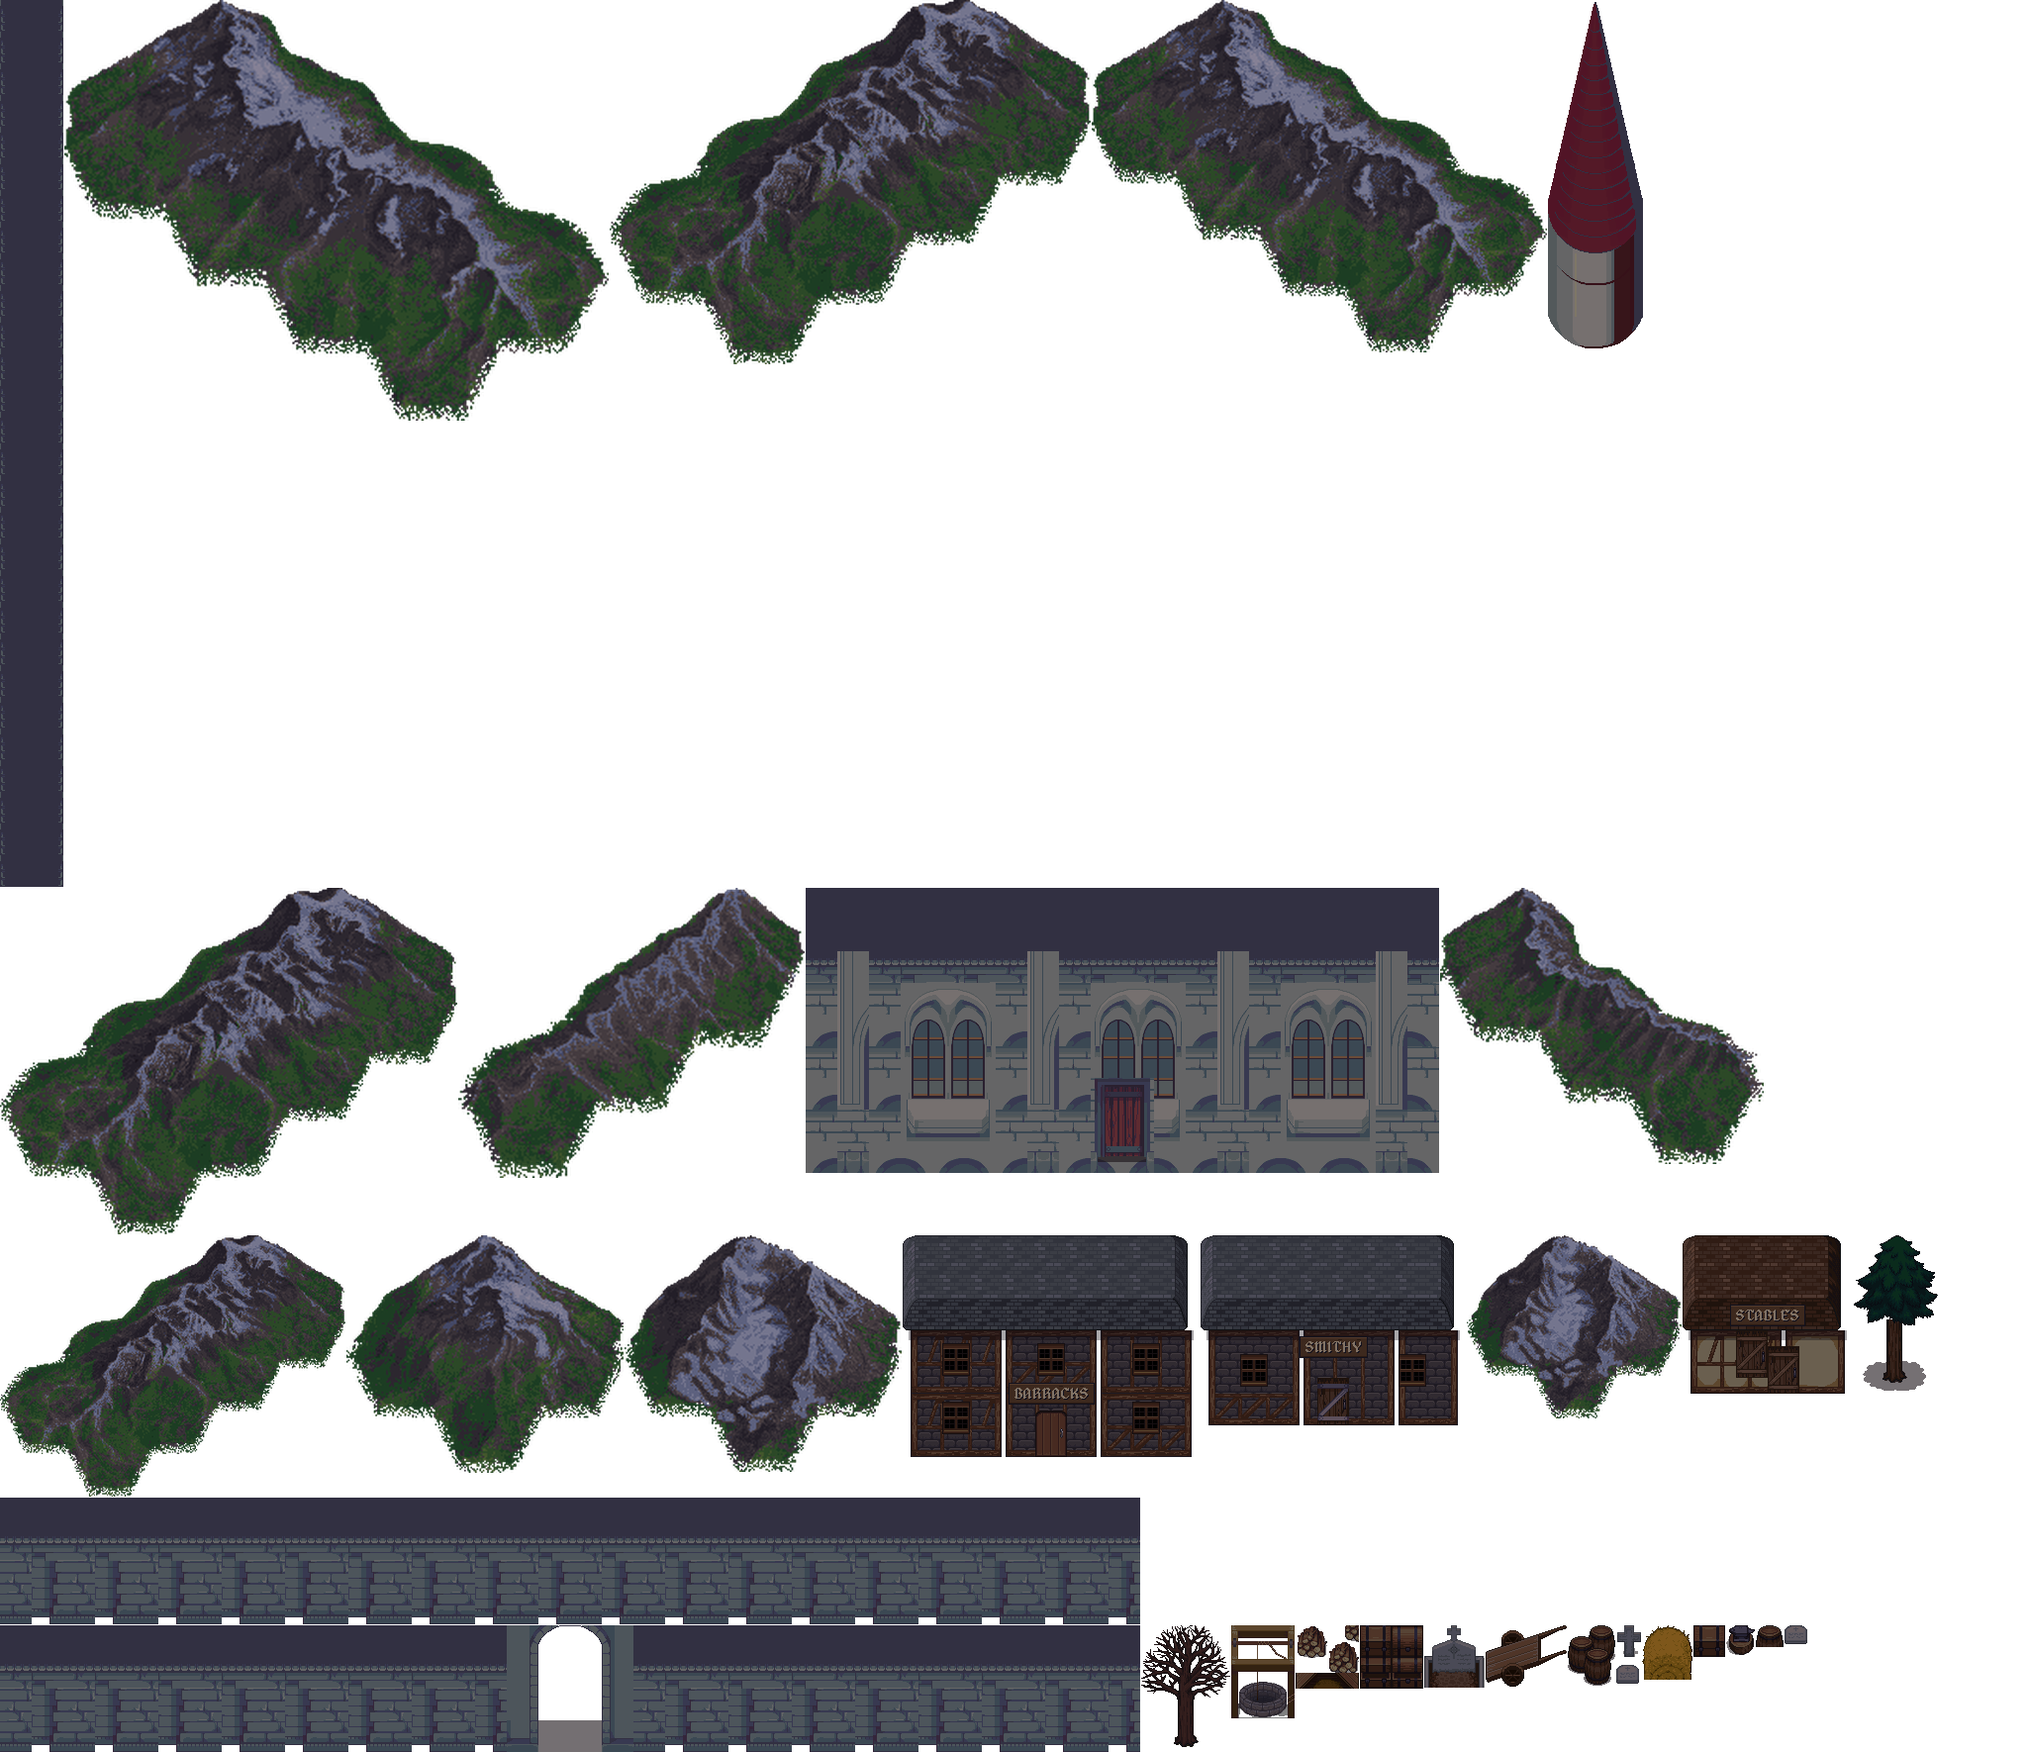
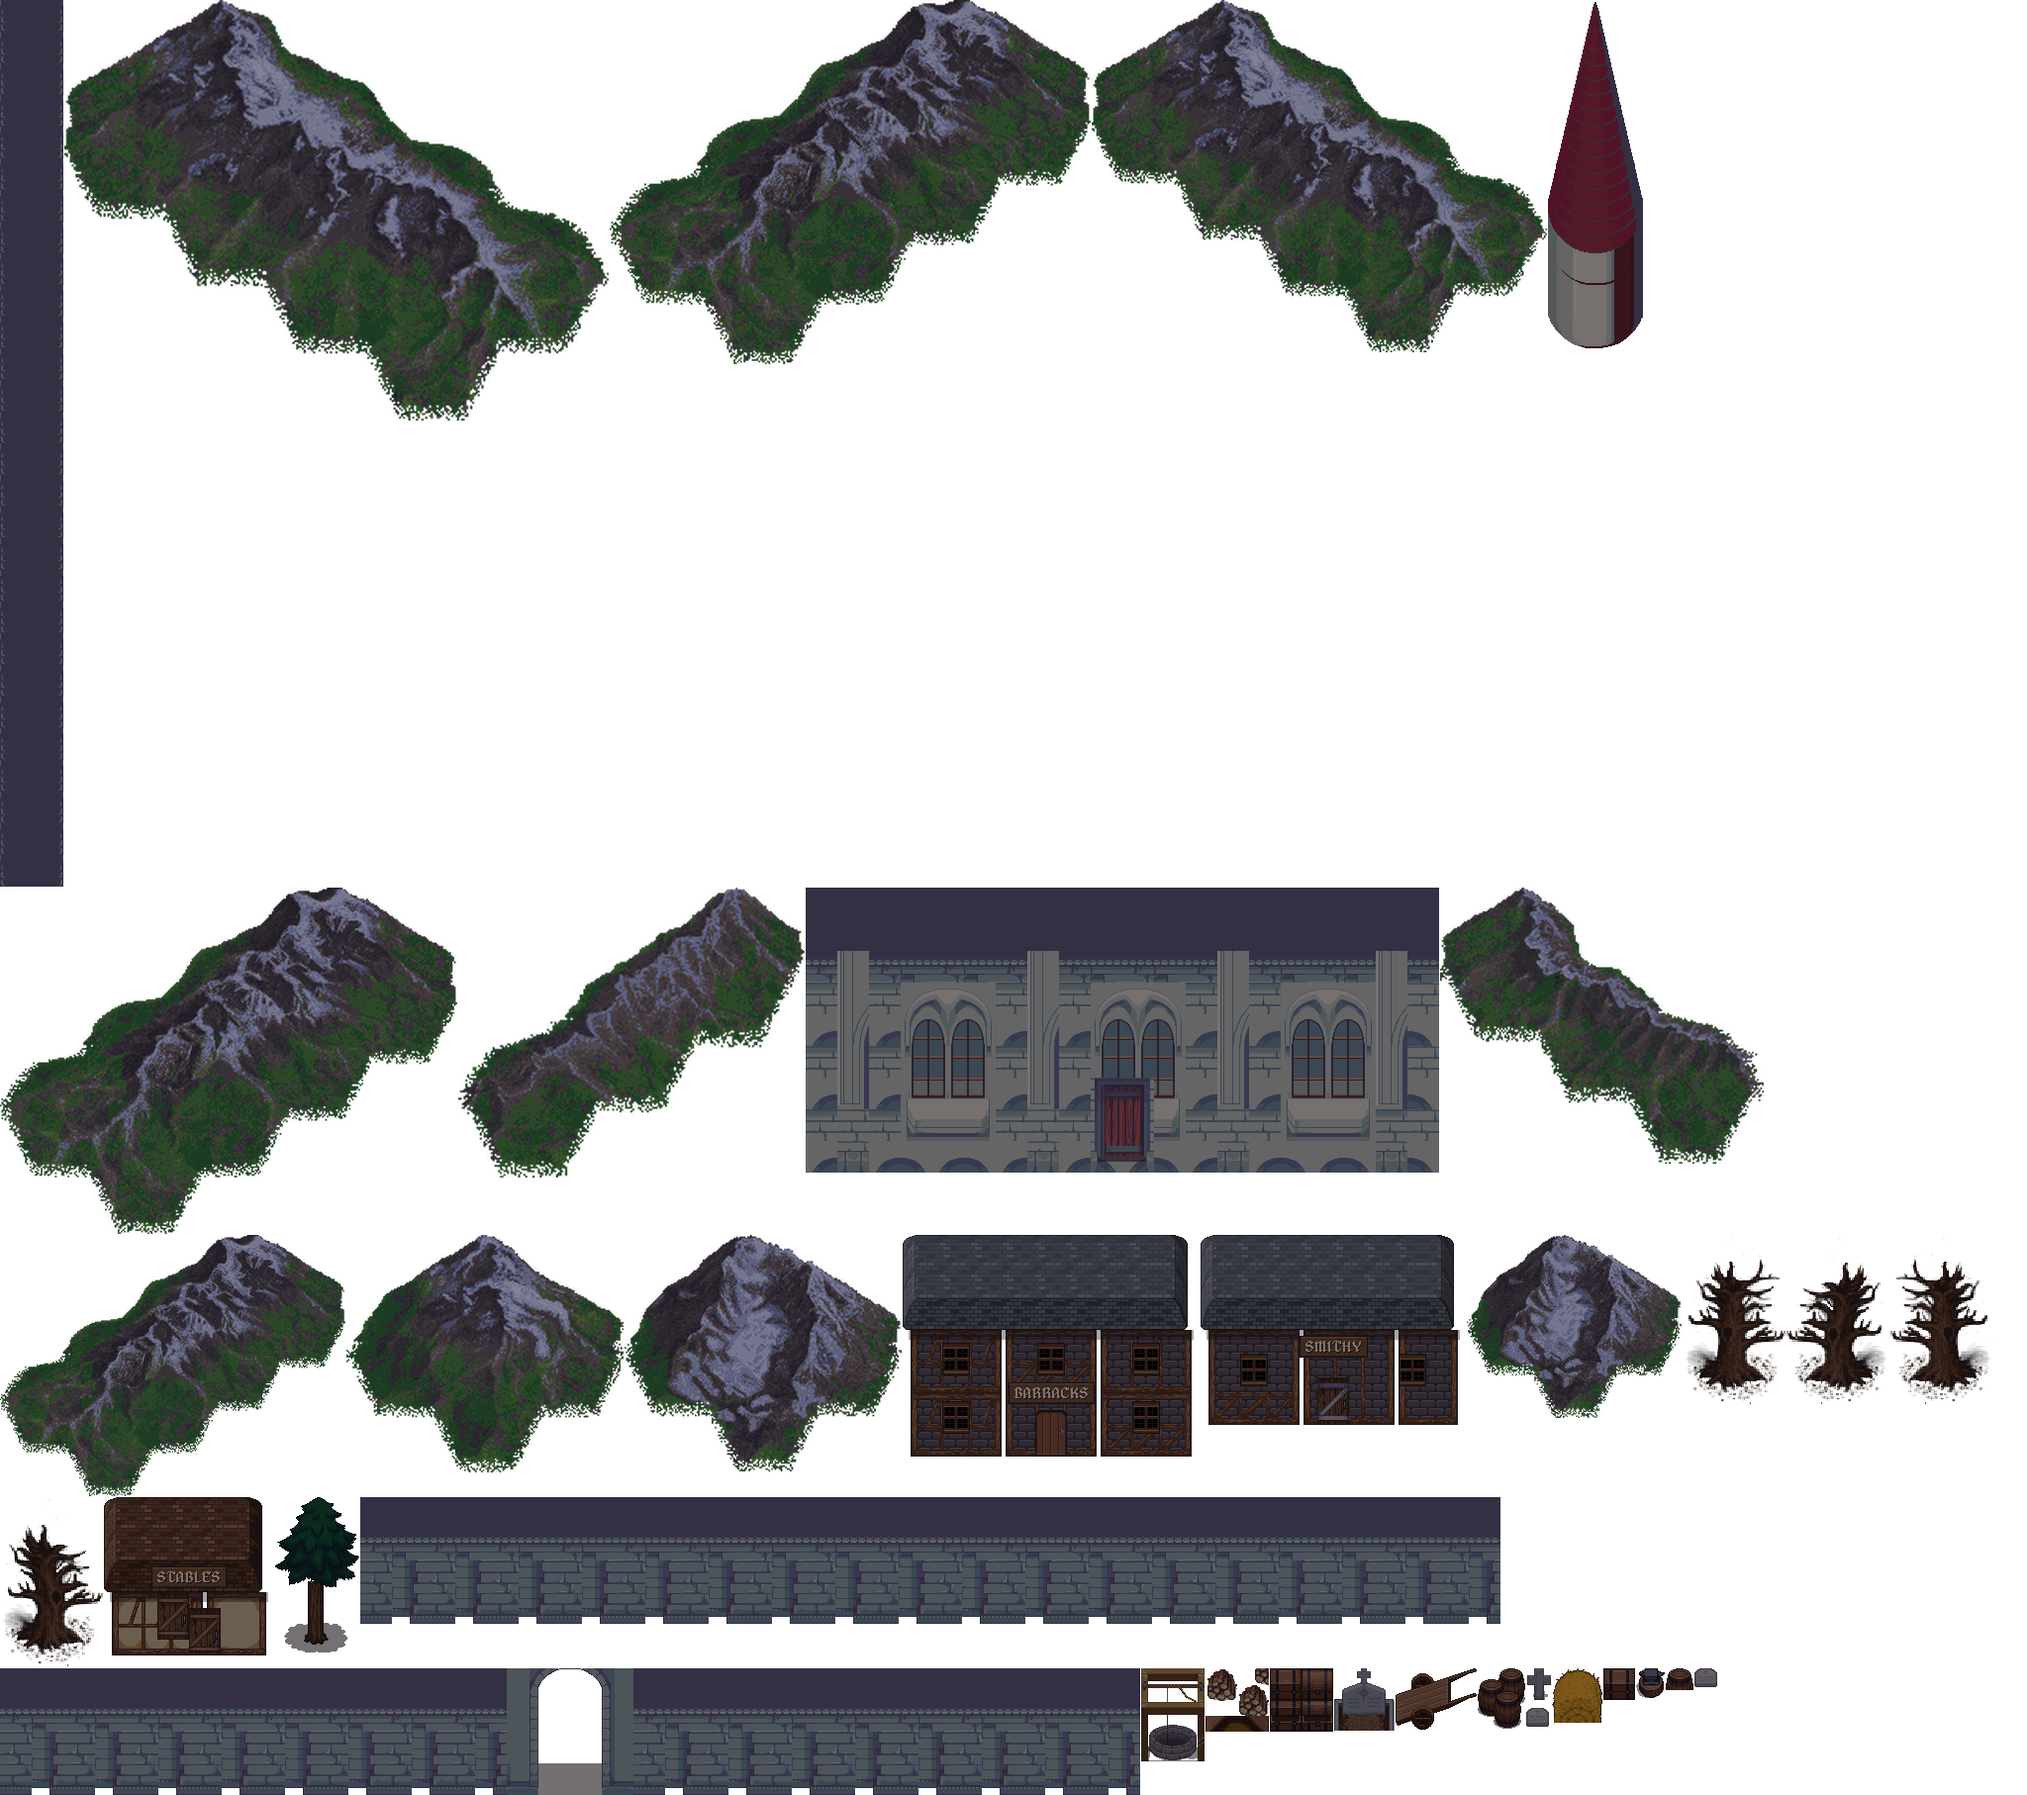
Sync from private repo

diff --git a/derived-art/source/tools/castlegen.py b/derived-art/source/tools/castlegen.py
@@ -863,6 +863,38 @@ def grim(img):
     return Image.fromarray(np.clip(a, 0, 255).astype(np.uint8))
 
 
+def _bark_ramp():
+    """The LPC trunk's browns (Sharm's, the overworld's trees' bark), darkest to lightest."""
+    px = np.array(Image.open(os.path.join(tg.ROOT, 'tools', 'worldgen-sources', 'trunk.png')).convert('RGBA')).reshape(-1, 4)
+    px = px[px[:, 3] > 250][:, :3].astype(float)
+    lum = px @ [0.3, 0.59, 0.11]
+    px, lum = px[lum > 20], lum[lum > 20]
+    return px[np.argsort(lum)]
+
+
+def dead_oak(name, flip=False, grow=1.5):
+    """The Battle for Wesnoth's dead oak (GPL, as Grimhold's mountains are: the 4-Season set's bare tree is
+    OGA-BY only), grown chunky as the ships are and its bark in the LPC trunk's browns, shade for shade."""
+    im = Image.open(os.path.join(tg.ROOT, 'tools', 'worldgen-sources', 'wesnoth-forest', f'{name}.png')).convert('RGBA')
+    im = im.crop(im.getbbox())
+    if flip:
+        im = im.transpose(Image.FLIP_LEFT_RIGHT)
+    im = im.resize((round(im.width * grow), round(im.height * grow)), Image.NEAREST)
+    a = np.array(im).astype(float)
+    lum = a[..., :3] @ [0.3, 0.59, 0.11]
+    lo, hi = np.percentile(lum[a[..., 3] > 0], [2, 98])
+    ramp = _bark_ramp()
+    a[..., :3] = ramp[(np.clip((lum - lo) / (hi - lo), 0, 1) * (len(ramp) - 1)).astype(int)]
+    img = Image.fromarray(np.clip(a, 0, 255).astype(np.uint8))
+    return piece(img, 0, 0, img.width, img.height)
+
+
+DEAD_OAKS = [('great-oak-tree-dead', False), ('great-oak-tree-dead2', True), ('great-oak-tree-dead', True), ('great-oak-tree-dead2', False)]
+for _i, (_name, _flip) in enumerate(DEAD_OAKS):
+    tg.PROPS[f'dead_oak{_i}'] = (lambda n=_name, f=_flip: dead_oak(n, f))
+    tg.BASES[f'dead_oak{_i}'] = (0.35, 14, 0.65)
+
+
 def crimson(img):
     """The towers' blue cones turned crimson-black."""
     a = np.array(img).astype(float)
@@ -988,11 +1020,22 @@ def grimhold():
     for x, y, kind in ((9.5, 31.2, 'grave'), (11.5, 31.4, 'grave_cross'), (13.5, 31.2, 'grave_small'), (10.5, 33, 'tomb'),
                        (14.6, 33.2, 'grave'), (12.6, 33.4, 'grave_small')):
         p(kind, x, y)
+    # Dead oaks, the courtyard's in earth of their own (the user's: not out of the cobbles)
+    t.dead_oaks = []
+    def oak(x, y, bed=True):
+        if bed:
+            t.paint(int(x) - 1, int(y) - 1, int(x) + 2, int(y) + 1, 'Dirt_Brown')
+            t.cobble[int(y) - 1:int(y) + 2, int(x) - 1:int(x) + 3] = False
+        p(f'dead_oak{len(t.dead_oaks) % len(DEAD_OAKS)}', x, y)
+        t.dead_oaks.append((x, y))
     for x, y in ((17.6, 29.8), (39.4, 22.4), (8.6, 24.6), (30.8, 31.8)):
-        p('bare_tree', x, y)
+        oak(x, y)
     for x in range(0, W, 3):
         if not 20 <= x <= 27:
-            p('bare_tree' if x % 2 else 'pine', x + 1.5, H - 0.4)
+            if x % 2:
+                oak(x + 1.5, H - 0.4, bed=False)
+            else:
+                p('pine', x + 1.5, H - 0.4)
     for y in range(13, H - 2, 3):
         p('pine', 0.9, y + 1)
         p('pine', W - 0.9, y + 1)

diff --git a/derived-art/README.md b/derived-art/README.md
@@ -49,6 +49,3 @@ The game's full credits, every piece of art, sound and font, are in `client/CRED
   Reid's "Dock tileset", which is CC-BY-SA 3.0 only, beside Wesnoth's GPL cave art. The two
   licences can't be combined, so the dock is to be replaced with one under the GPL when the grotto
   is next rebuilt.
-- Castle Grimhold's grounds (`grimhold-things.png`, GPL 3.0) have bare trees from "[LPC Revised]
-  4-Season Terrain", which is OGA-BY 3.0 only. Whether OGA-BY 3.0 can go into a GPL work isn't
-  settled, so they may be replaced with bare trees under the GPL too.
